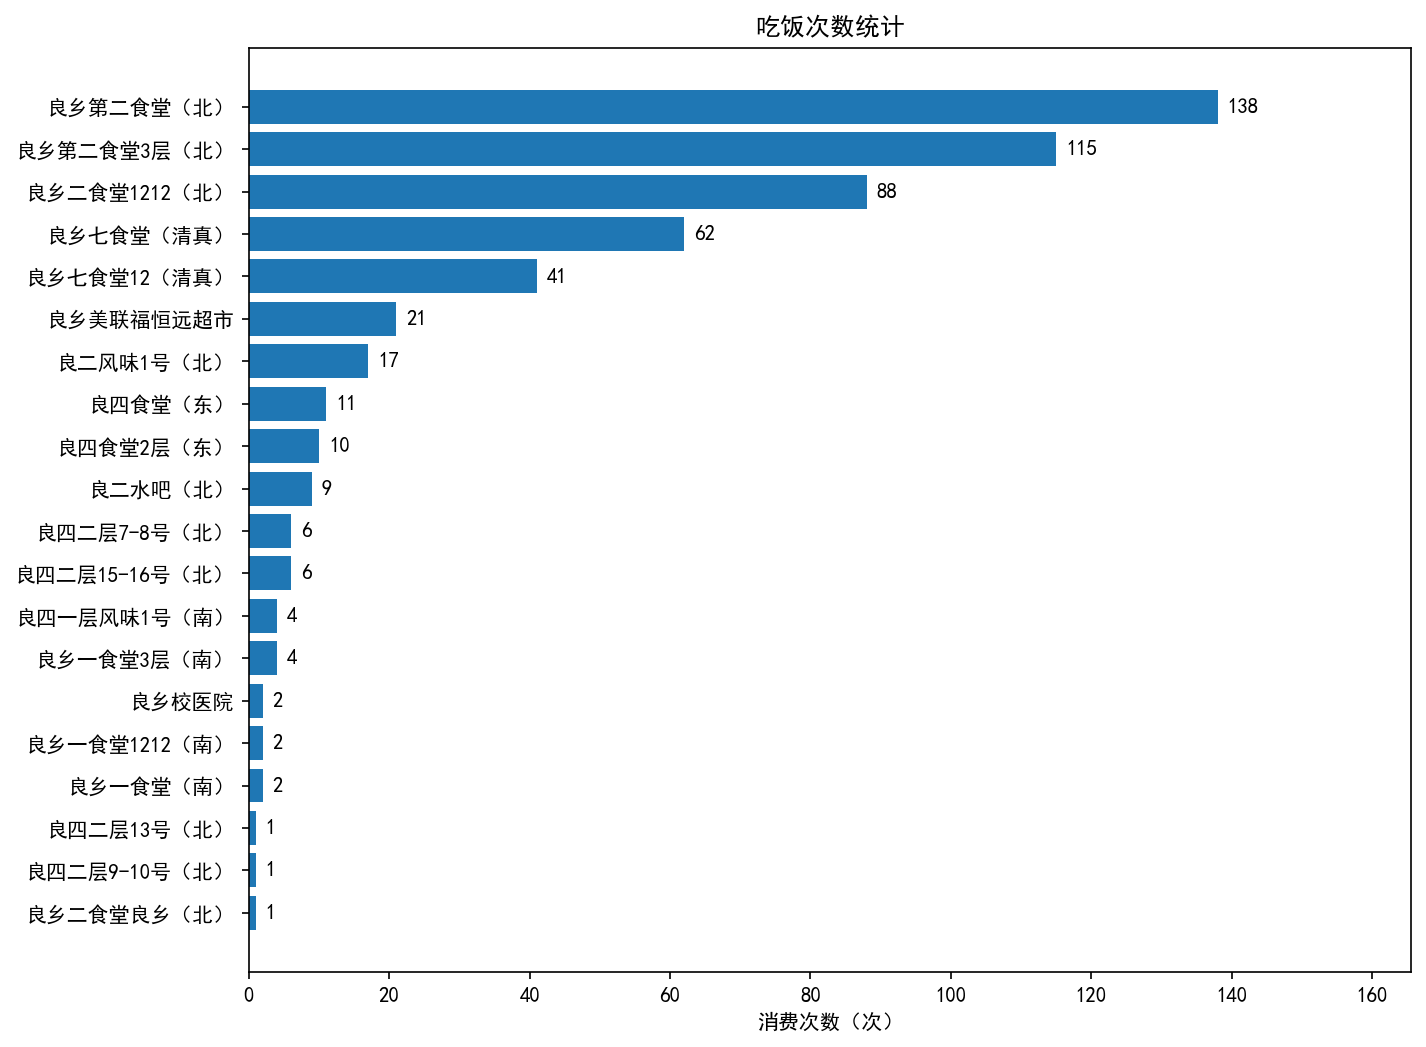
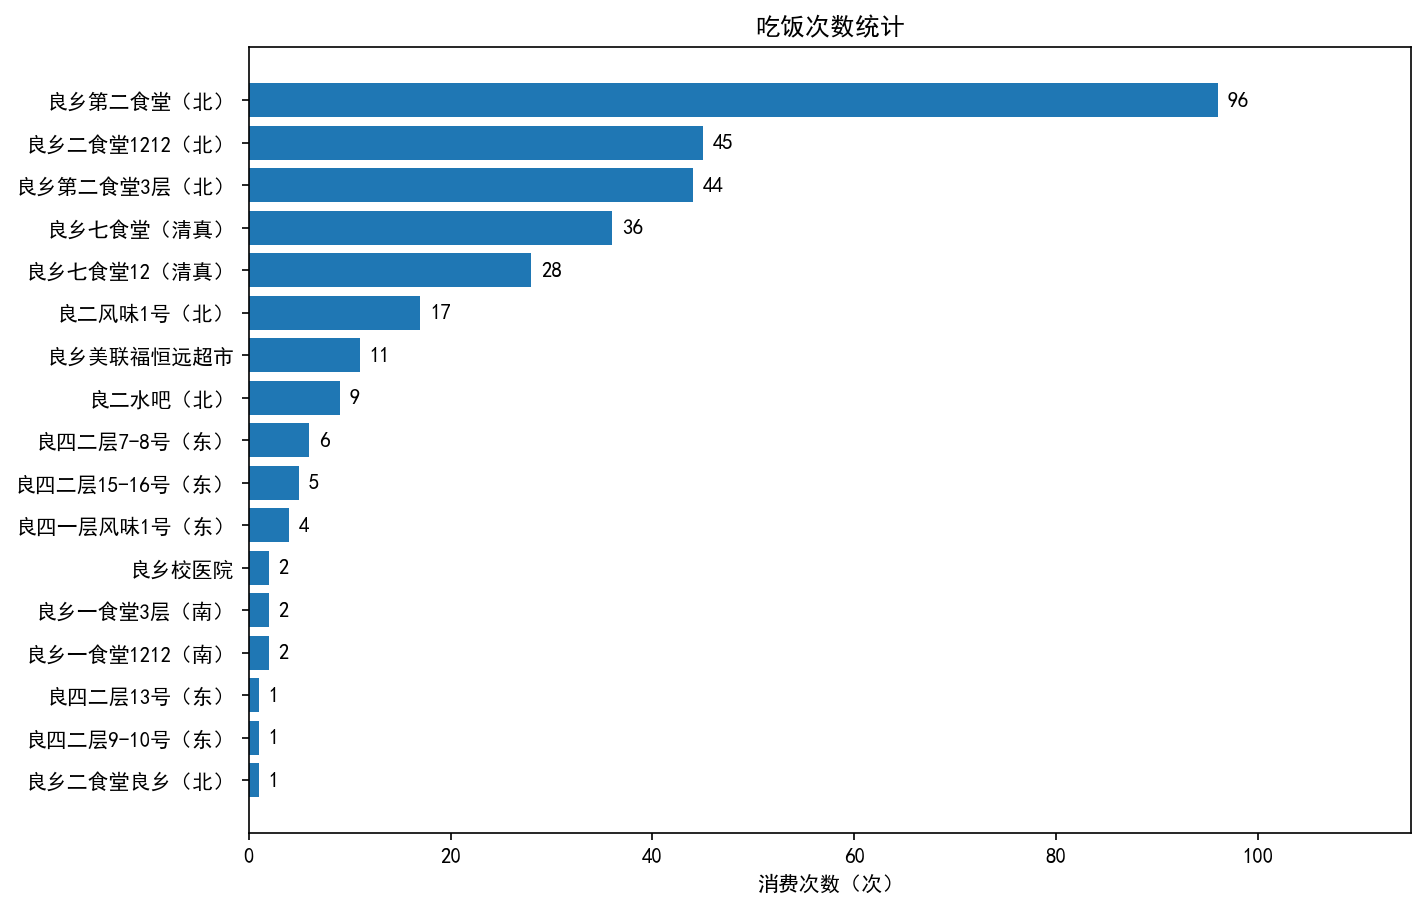
Add toggle for merchant region labels

diff --git a/main.py b/main.py
@@ -149,18 +149,21 @@ def save_csv(records: list[dict], path: str) -> None:
 
 
 def _format_merchant_label(name: str) -> str:
-    if "一" in name:
-        return name + "（南）"
-    if "二" in name:
-        return name + "（北）"
-    if "七" in name:
-        return name + "（清真）"
-    if "四" in name:
-        return name + "（东）"
+    # 根据名称中第一次出现的中文数字添加后缀
+    # 例如 "良四二层" -> "良四二层（东）"
+    for c in name:
+        if c == "一":
+            return name + "（南）"
+        if c == "二":
+            return name + "（北）"
+        if c == "七":
+            return name + "（清真）"
+        if c == "四":
+            return name + "（东）"
     return name
 
 
-def save_bar_chart(records: list[dict], path: str) -> None:
+def save_bar_chart(records: list[dict], path: str, use_region_label: bool = False) -> None:
     import matplotlib.pyplot as plt
 
     # 设置中文字体和负号显示
@@ -176,7 +179,10 @@ def save_bar_chart(records: list[dict], path: str) -> None:
 
     items = sorted(totals.items(), key=lambda x: x[1], reverse=True)
     merchants = [name for name, _ in items]
-    display_merchants = [_format_merchant_label(name) for name in merchants]
+    if use_region_label:
+        display_merchants = [_format_merchant_label(name) for name in merchants]
+    else:
+        display_merchants = merchants
     amounts = [value for _, value in items]
 
     os.makedirs(os.path.dirname(path), exist_ok=True)
@@ -203,7 +209,7 @@ def save_bar_chart(records: list[dict], path: str) -> None:
     plt.savefig(path, dpi=150, bbox_inches="tight")
 
 
-def save_count_chart(records: list[dict], path: str) -> None:
+def save_count_chart(records: list[dict], path: str, use_region_label: bool = False) -> None:
     import matplotlib.pyplot as plt
 
     # 设置中文字体和负号显示
@@ -220,7 +226,10 @@ def save_count_chart(records: list[dict], path: str) -> None:
     # 按次数从高到低排序
     items = sorted(counts.items(), key=lambda x: x[1], reverse=True)
     merchants = [name for name, _ in items]
-    display_merchants = [_format_merchant_label(name) for name in merchants]
+    if use_region_label:
+        display_merchants = [_format_merchant_label(name) for name in merchants]
+    else:
+        display_merchants = merchants
     times = [value for _, value in items]
 
     os.makedirs(os.path.dirname(path), exist_ok=True)
@@ -271,6 +280,13 @@ def split_date_range(begin_date: str, end_date: str, max_days: int = 31) -> list
 
 def main() -> None:
     print("百丽宫大学校园卡消费分析")
+    print("-----------------------------")
+
+    use_region_label_input = input(
+        "是否为食堂名称添加区域标注（如一食堂→一食堂（南）、四食堂→四食堂（东）\n"
+        "仅推荐良乡校区的同学输入 Y 以便区分东/南/北/清真食堂 [Y/N]: "
+    ).strip()
+    use_region_label = use_region_label_input.lower() == "y"
 
     idserial = input("请输入学号: ").strip()
     cardpwd = input("请输入六位校园卡密码: ").strip()
@@ -282,7 +298,7 @@ def main() -> None:
         return
 
     if cardpwd == "123456":
-        print("检测到你使用的是默认密码 123456，强烈建议尽快线下修改为只有你自己知道的密码。")
+        print("\n检测到你使用的是默认密码 123456，强烈建议尽快修改为只有你自己知道的密码。")
 
     try:
         print("\n正在登录校园卡系统...")
@@ -308,8 +324,8 @@ def main() -> None:
         img_count_path = os.path.join("output", "summary_count.png")
 
         save_csv(records, csv_path)
-        save_bar_chart(records, img_amount_path)
-        save_count_chart(records, img_count_path)
+        save_bar_chart(records, img_amount_path, use_region_label=use_region_label)
+        save_count_chart(records, img_count_path, use_region_label=use_region_label)
 
         total_amount = sum(r["amount"] for r in records)
         print(f"已保存明细到: {csv_path}")
